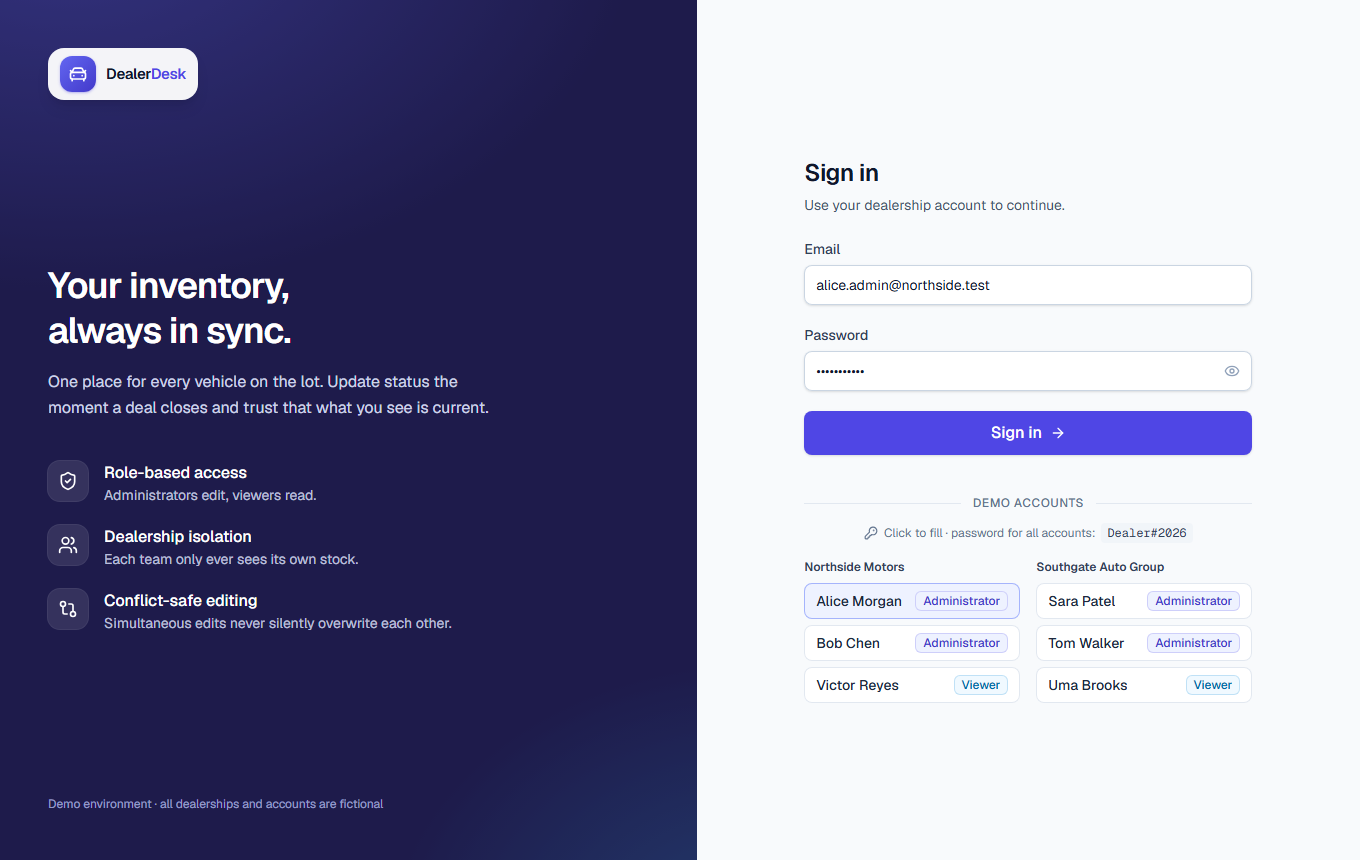
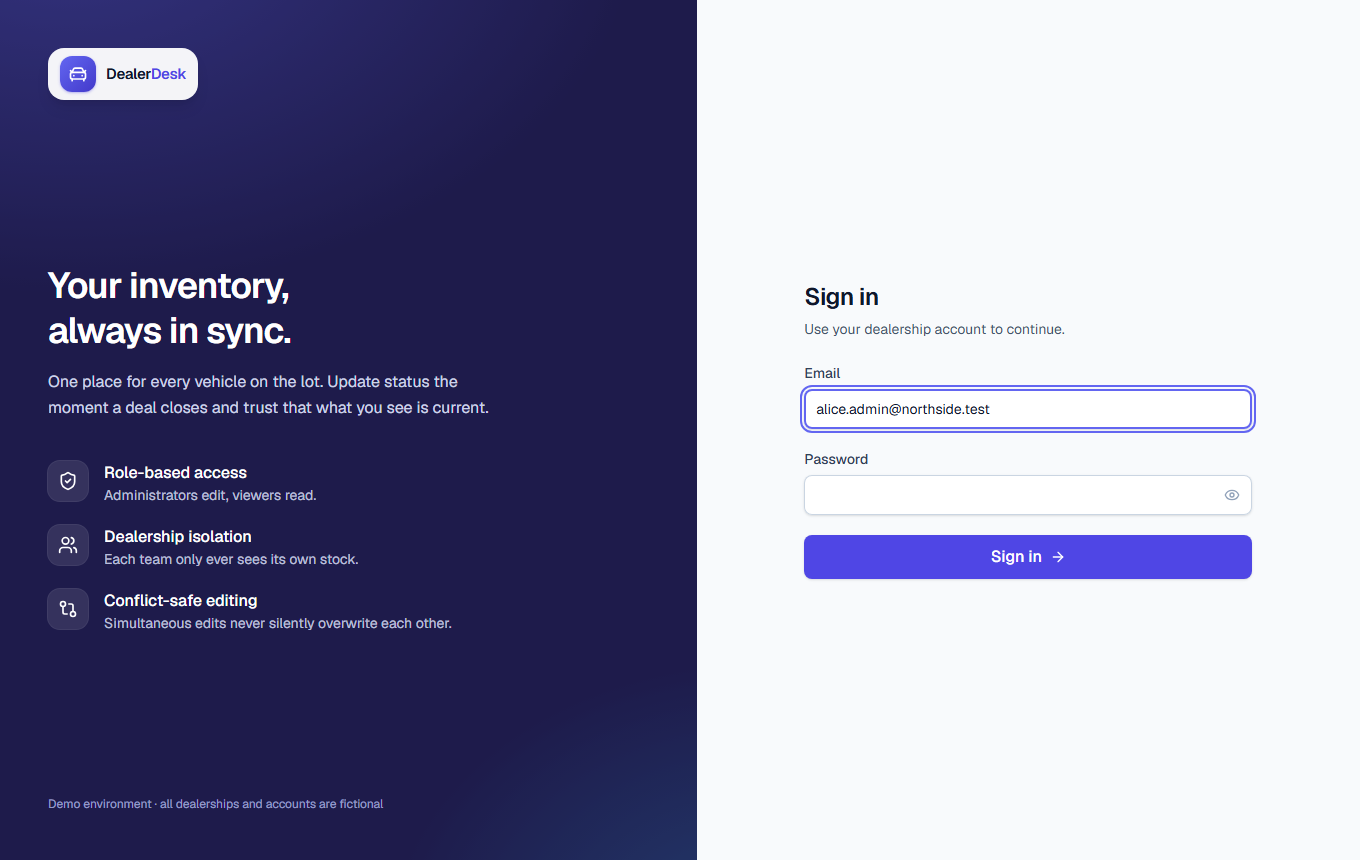
feat(web): remove click-to-fill demo accounts from the login page
The login page no longer lists demo accounts or shows the shared password.
Reviewer accounts are documented in the README only. Removes
lib/demo-accounts.ts and NEXT_PUBLIC_SHOW_DEMO_ACCOUNTS; the screenshot spec
types the email instead of clicking a demo button; screenshots regenerated.

diff --git a/frontend/app/login/page.tsx b/frontend/app/login/page.tsx
@@ -5,7 +5,6 @@ import {
   Eye,
   EyeOff,
   GitCompare,
-  KeyRound,
   ShieldCheck,
   Users,
 } from "lucide-react";
@@ -13,10 +12,8 @@ import { useRouter, useSearchParams } from "next/navigation";
 import { Suspense, useEffect, useState, type FormEvent } from "react";
 import { Logo } from "@/components/app-shell";
 import { useAuth } from "@/components/auth-provider";
-import { Alert, Button, Field, FullPageSpinner, Input, RoleBadge } from "@/components/ui";
+import { Alert, Button, Field, FullPageSpinner, Input } from "@/components/ui";
 import { ApiError } from "@/lib/api";
-import { DEMO_ACCOUNTS, DEMO_PASSWORD, SHOW_DEMO_ACCOUNTS } from "@/lib/demo-accounts";
-import { cn } from "@/lib/format";
 
 const REASON_MESSAGES: Record<string, { tone: "info" | "warning"; text: string }> = {
   token_expired: { tone: "warning", text: "Your session expired. Please sign in again." },
@@ -71,12 +68,6 @@ function LoginForm() {
       }
       setSubmitting(false);
     }
-  }
-
-  function fillDemo(demoEmail: string) {
-    setEmail(demoEmail);
-    setPassword(DEMO_PASSWORD);
-    setError(null);
   }
 
   return (
@@ -188,53 +179,6 @@ function LoginForm() {
             </Button>
           </form>
 
-          {SHOW_DEMO_ACCOUNTS && (
-            <section className="mt-10" aria-labelledby="demo-heading">
-              <div className="flex items-center gap-3">
-                <span className="h-px flex-1 bg-slate-200" />
-                <h2
-                  id="demo-heading"
-                  className="text-xs font-medium uppercase tracking-wider text-slate-500"
-                >
-                  Demo accounts
-                </h2>
-                <span className="h-px flex-1 bg-slate-200" />
-              </div>
-              <p className="mt-3 flex items-center justify-center gap-1.5 text-xs text-slate-500">
-                <KeyRound className="size-3.5" aria-hidden />
-                Click to fill · password for all accounts:
-                <code className="rounded bg-slate-100 px-1.5 py-0.5 font-mono text-slate-700">
-                  {DEMO_PASSWORD}
-                </code>
-              </p>
-              <div className="mt-4 grid gap-4 sm:grid-cols-2">
-                {DEMO_ACCOUNTS.map((group) => (
-                  <div key={group.dealership}>
-                    <p className="mb-2 text-xs font-semibold text-slate-700">{group.dealership}</p>
-                    <ul className="space-y-1.5">
-                      {group.users.map((u) => (
-                        <li key={u.email}>
-                          <button
-                            type="button"
-                            onClick={() => fillDemo(u.email)}
-                            className={cn(
-                              "flex w-full items-center justify-between gap-2 rounded-lg px-3 py-2 text-left text-sm ring-1 ring-inset transition-colors",
-                              email === u.email
-                                ? "bg-brand-50 ring-brand-300"
-                                : "bg-white ring-slate-200 hover:bg-slate-50",
-                            )}
-                          >
-                            <span className="truncate font-medium text-slate-800">{u.name}</span>
-                            <RoleBadge role={u.role} />
-                          </button>
-                        </li>
-                      ))}
-                    </ul>
-                  </div>
-                ))}
-              </div>
-            </section>
-          )}
         </div>
       </main>
     </div>

diff --git a/frontend/e2e/screenshots.spec.ts b/frontend/e2e/screenshots.spec.ts
@@ -17,7 +17,7 @@ test.use({ viewport: { width: 1360, height: 860 } });
 
 test("capture screens", async ({ page, browser }) => {
   await page.goto("/login/");
-  await page.getByRole("button", { name: /Alice Morgan/ }).click();
+  await page.getByLabel("Email").fill(ACCOUNTS.alice.email);
   await page.screenshot(shot("01-login"));
 
   await signIn(page, ACCOUNTS.alice.email);

diff --git a/docs/LOOM_SCRIPT.md b/docs/LOOM_SCRIPT.md
@@ -67,16 +67,16 @@ action below makes a request appear in the log.
 
 | Do in the app | Appears in the live log |
 |---|---|
-| Sign in as **Alice Morgan**, using the demo-account button | `POST /api/auth/login` |
+| Sign in as `alice.admin@northside.test` | `POST /api/auth/login` |
 | Inventory loads: 4 Northside vehicles, no Southgate stock | `GET /api/vehicles` |
 | Open **2022 Toyota Camry**: version 1 | `GET /api/vehicles/{id}` |
-| In tab 3 sign in as **Bob Chen** and open the same Camry | `POST /api/auth/login`, `GET …/{id}` |
+| In tab 3 sign in as `bob.admin@northside.test` and open the same Camry | `POST /api/auth/login`, `GET …/{id}` |
 | Alice changes the model, then **Save changes**: "version 2" | `PUT /api/vehicles/{id}` → 200 |
 | Bob changes the status, then **Save changes** | `PUT /api/vehicles/{id}` → **409** |
 | Point at Bob's conflict panel: who saved, the diff, Save disabled | |
 | Bob clicks **Refresh to latest version**, re-applies, saves: "version 3" | `GET …/{id}`, then `PUT` → 200 |
 | Reload Alice's page: both changes persisted | `GET …/{id}` |
-| Sign out Bob, then sign in as **Victor Reyes**: read-only notice, **View** links only | `POST …/logout` → 204, login |
+| Sign out Bob, then sign in as `victor.viewer@northside.test`: read-only notice, **View** links only | `POST …/logout` → 204, login |
 
 **Click one `PUT` event in the log** and point at `"status"` and `"cpuTimeMs"`. Scroll past
 the `cf` section.

diff --git a/README.md b/README.md
@@ -43,8 +43,8 @@ Honest summary of what is done and verified versus still open.
 
 ## Reviewer accounts
 
-All accounts are synthetic. One shared password: **`Dealer#2026`**. The login page also lists
-them; click one to fill the form.
+All accounts are synthetic. One shared password: **`Dealer#2026`**. They are listed only here,
+not on the login page.
 
 | Dealership | Name | Email | Role |
 |---|---|---|---|
@@ -140,7 +140,6 @@ Names only; no real secrets are committed. See `backend/.env.example` and `front
 | `STATIC_DIR` | backend | Optional: serve `frontend/out` from the API (E2E tests) |
 | `TEST_DATABASE_URL` | tests | Test database, default `.../dealership_test` |
 | `NEXT_PUBLIC_API_BASE_URL` | frontend | API origin; empty in production (same origin) |
-| `NEXT_PUBLIC_SHOW_DEMO_ACCOUNTS` | frontend | Show demo accounts on the login page |
 
 Deployment configuration is listed under [Deployment](#deployment-cloudflare).
 
